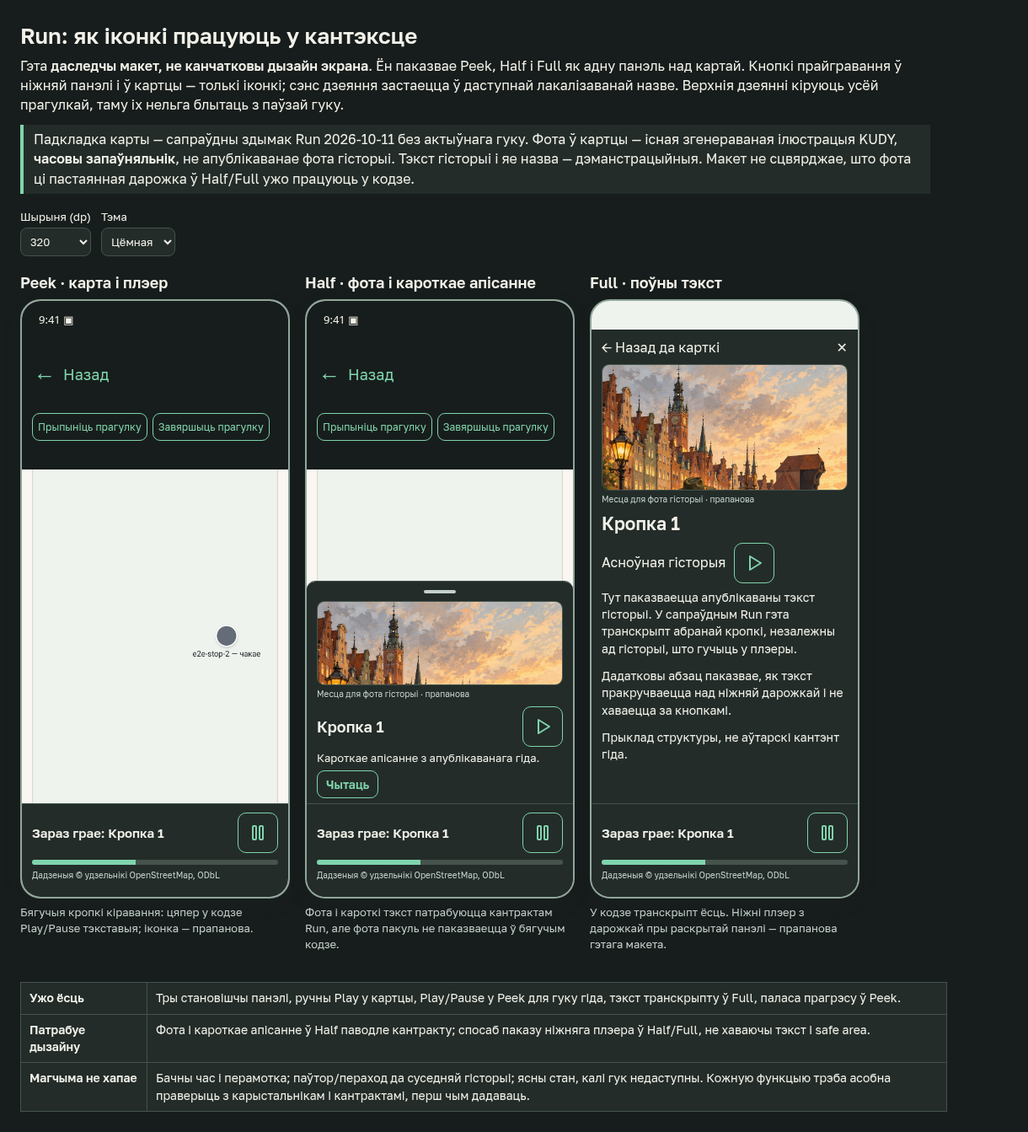
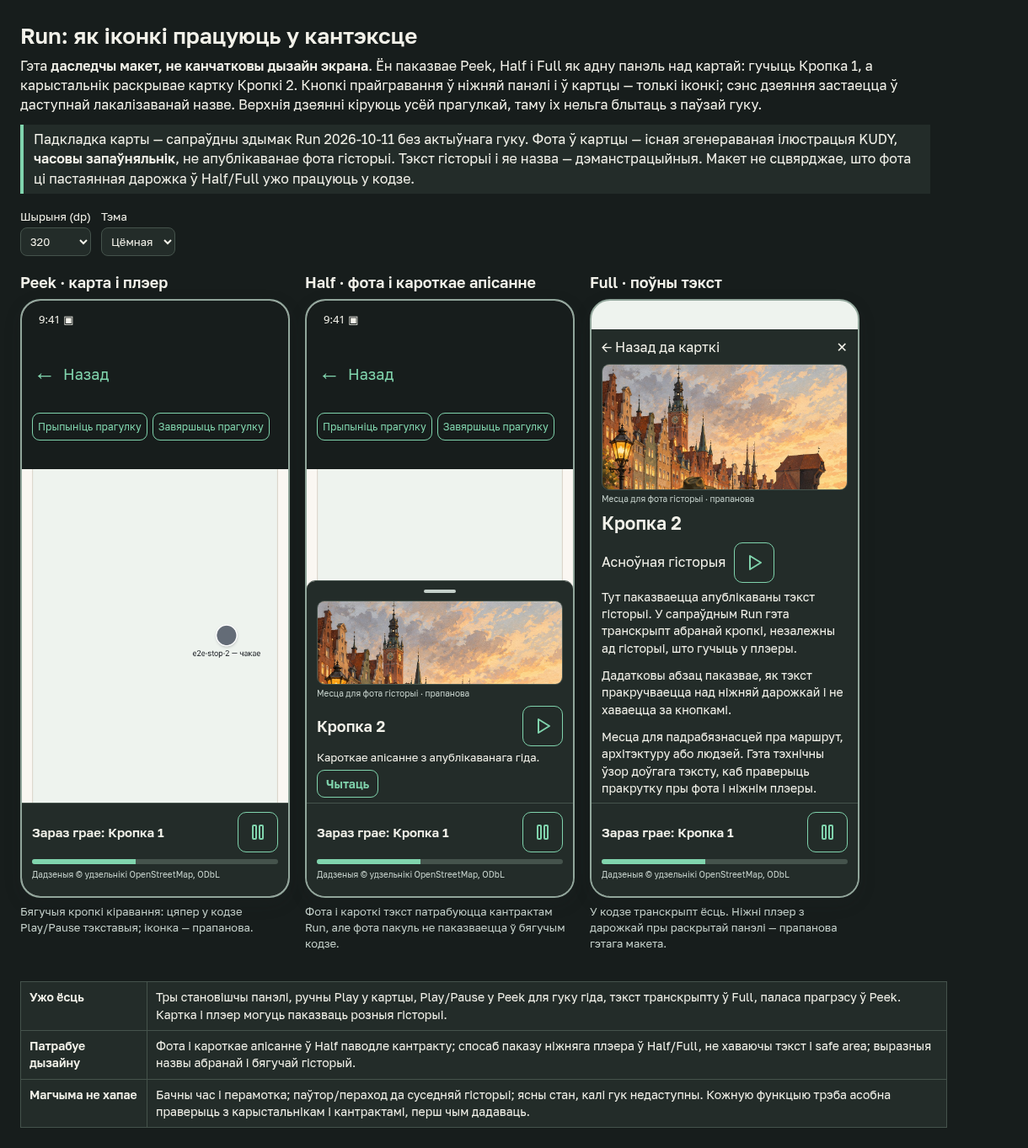
docs: show expanded Run playback context

diff --git a/docs/design/brand/outputs/UI-REVIEW-01/run-context.html b/docs/design/brand/outputs/UI-REVIEW-01/run-context.html
@@ -23,7 +23,7 @@ body[data-theme=dark]{--paper:#171d1c;--ink:#f2f1e9;--muted:#c4d0ca;--accent:#80
 </head>
 <body data-theme="light">
 <h1>Run: як іконкі працуюць у кантэксце</h1>
-<p class="intro">Гэта <b>даследчы макет, не канчатковы дызайн экрана</b>. Ён паказвае Peek, Half і Full як адну панэль над картай. Кнопкі прайгравання ў ніжняй панэлі і ў картцы — толькі іконкі; сэнс дзеяння застаецца ў даступнай лакалізаванай назве. Верхнія дзеянні кіруюць усёй прагулкай, таму іх нельга блытаць з паўзай гуку.</p>
+<p class="intro">Гэта <b>даследчы макет, не канчатковы дызайн экрана</b>. Ён паказвае Peek, Half і Full як адну панэль над картай: гучыць Кропка 1, а карыстальнік раскрывае картку Кропкі 2. Кнопкі прайгравання ў ніжняй панэлі і ў картцы — толькі іконкі; сэнс дзеяння застаецца ў даступнай лакалізаванай назве. Верхнія дзеянні кіруюць усёй прагулкай, таму іх нельга блытаць з паўзай гуку.</p>
 <p class="caveat">Падкладка карты — сапраўдны здымак Run 2026-10-11 без актыўнага гуку. Фота ў картцы — існая згенераваная ілюстрацыя KUDY, <b>часовы запаўняльнік</b>, не апублікаванае фота гісторыі. Тэкст гісторыі і яе назва — дэманстрацыйныя. Макет не сцвярджае, што фота ці пастаянная дарожка ў Half/Full ужо працуюць у кодзе.</p>
 <div class="controls"><label>Шырыня (dp)<select id="width"><option>320</option><option selected>360</option><option>390</option></select></label><label>Тэма<select id="theme"><option value="light">Светлая</option><option value="dark">Цёмная</option></select></label></div>
 <div class="grid">
@@ -31,7 +31,7 @@ body[data-theme=dark]{--paper:#171d1c;--ink:#f2f1e9;--muted:#c4d0ca;--accent:#80
  <section class="case"><h2>Half · фота і кароткае апісанне</h2><div class="phone" id="half"></div><p>Фота і кароткі тэкст патрабуюцца кантрактам Run, але фота пакуль не паказваецца ў бягучым кодзе.</p></section>
  <section class="case"><h2>Full · поўны тэкст</h2><div class="phone" id="full"></div><p>У кодзе транскрыпт ёсць. Ніжні плэер з дарожкай пры раскрытай панэлі — прапанова гэтага макета.</p></section>
 </div>
-<table class="fact-table"><tr><th>Ужо ёсць</th><td>Тры становішчы панэлі, ручны Play у картцы, Play/Pause у Peek для гуку гіда, тэкст транскрыпту ў Full, паласа прагрэсу ў Peek.</td></tr><tr><th>Патрабуе дызайну</th><td>Фота і кароткае апісанне ў Half паводле кантракту; спосаб паказу ніжняга плэера ў Half/Full, не хаваючы тэкст і safe area.</td></tr><tr><th>Магчыма не хапае</th><td>Бачны час і перамотка; паўтор/пераход да суседняй гісторыі; ясны стан, калі гук недаступны. Кожную функцыю трэба асобна праверыць з карыстальнікам і кантрактамі, перш чым дадаваць.</td></tr></table>
+<table class="fact-table"><tr><th>Ужо ёсць</th><td>Тры становішчы панэлі, ручны Play у картцы, Play/Pause у Peek для гуку гіда, тэкст транскрыпту ў Full, паласа прагрэсу ў Peek. Картка і плэер могуць паказваць розныя гісторыі.</td></tr><tr><th>Патрабуе дызайну</th><td>Фота і кароткае апісанне ў Half паводле кантракту; спосаб паказу ніжняга плэера ў Half/Full, не хаваючы тэкст і safe area; выразныя назвы абранай і бягучай гісторый.</td></tr><tr><th>Магчыма не хапае</th><td>Бачны час і перамотка; паўтор/пераход да суседняй гісторыі; ясны стан, калі гук недаступны. Кожную функцыю трэба асобна праверыць з карыстальнікам і кантрактамі, перш чым дадаваць.</td></tr></table>
 <script>
 const map='../../../../../testing/evidence/2026-10-11-g727/run-active.png';
 const art='../mobile-welcome-2026-10-19/art/08-night-harbor.jpg';
@@ -41,8 +41,8 @@ const base=`<img class="map-shot" src="${map}" alt=""><div class="header"><span 
 const dock=`<div class="dock"><div class="dock-row"><div class="now">Зараз грае: Кропка 1</div><button type="button" class="icon-button" aria-label="Паўза" title="Паўза">${pause}</button></div><div class="progress" aria-label="Прайграна 42%"><span></span></div><div class="source">Дадзеныя © удзельнікі OpenStreetMap, ODbL</div></div>`;
 const photo=`<img class="story-photo" src="${art}" alt="Ілюстрацыя-запаўняльнік: горад ля вады"><div class="photo-caption">Месца для фота гісторыі · прапанова</div>`;
 document.querySelector('#peek').innerHTML=base+dock;
-document.querySelector('#half').innerHTML=base+`<div class="sheet"><div class="handle"></div>${photo}<div class="story-row"><h3>Кропка 1</h3><button class="icon-button" type="button" aria-label="Граць" title="Граць">${play}</button></div><div class="summary">Кароткае апісанне з апублікаванага гіда.</div><button class="read" type="button">Чытаць</button></div>`+dock;
-document.querySelector('#full').innerHTML=`<div class="full"><div class="headerline"><span>← Назад да карткі</span><span>✕</span></div>${photo}<h3>Кропка 1</h3><div class="story-row"><span>Асноўная гісторыя</span><button class="icon-button" type="button" aria-label="Граць" title="Граць">${play}</button></div><div class="bodycopy"><p>Тут паказваецца апублікаваны тэкст гісторыі. У сапраўдным Run гэта транскрыпт абранай кропкі, незалежны ад гісторыі, што гучыць у плэеры.</p><p>Дадатковы абзац паказвае, як тэкст пракручваецца над ніжняй дарожкай і не хаваецца за кнопкамі.</p><p class="proposal">Прыклад структуры, не аўтарскі кантэнт гіда.</p></div></div>`+dock;
+document.querySelector('#half').innerHTML=base+`<div class="sheet"><div class="handle"></div>${photo}<div class="story-row"><h3>Кропка 2</h3><button class="icon-button" type="button" aria-label="Граць гісторыю Кропкі 2" title="Граць гісторыю Кропкі 2">${play}</button></div><div class="summary">Кароткае апісанне з апублікаванага гіда.</div><button class="read" type="button">Чытаць</button></div>`+dock;
+document.querySelector('#full').innerHTML=`<div class="full"><div class="headerline"><span>← Назад да карткі</span><span>✕</span></div>${photo}<h3>Кропка 2</h3><div class="story-row"><span>Асноўная гісторыя</span><button class="icon-button" type="button" aria-label="Граць гісторыю Кропкі 2" title="Граць гісторыю Кропкі 2">${play}</button></div><div class="bodycopy"><p>Тут паказваецца апублікаваны тэкст гісторыі. У сапраўдным Run гэта транскрыпт абранай кропкі, незалежны ад гісторыі, што гучыць у плэеры.</p><p>Дадатковы абзац паказвае, як тэкст пракручваецца над ніжняй дарожкай і не хаваецца за кнопкамі.</p><p>Месца для падрабязнасцей пра маршрут, архітэктуру або людзей. Гэта тэхнічны ўзор доўгага тэксту, каб праверыць пракрутку пры фота і ніжнім плэеры.</p><p>У канцы гісторыі могуць быць дадатковыя звесткі, якія трэба дачытаць без перакрыцця дарожкай. Сапраўдны тэкст задае рэдактар гіда.</p><p class="proposal">Прыклад структуры, не аўтарскі кантэнт гіда.</p></div></div>`+dock;
 for(const s of document.querySelectorAll('select'))s.addEventListener('change',()=>{document.body.dataset.theme=document.querySelector('#theme').value;document.body.style.setProperty('--w',document.querySelector('#width').value+'px')});
 </script>
 </body></html>

diff --git a/docs/agent-tasks/results/UI-REVIEW-01.md b/docs/agent-tasks/results/UI-REVIEW-01.md
@@ -12,14 +12,14 @@
 
 ## Варыянты для выбару
 
-Рэдагуемая [дошка іконак](../../design/brand/outputs/UI-REVIEW-01/board.html) параўноўвае два варыянты без бачнага подпісу на аднолькавай падкладцы Run. Кнопка ў кожнага варыянту мінімум 48×48 dp. [Кантэкстны макет](../../design/brand/outputs/UI-REVIEW-01/run-context.html) асобна паказвае Peek, Half і Full з іконкамі для ніжняга Play/Pause і ручнога Play у картцы, з фота-слотам, тэкстам і ніжняй дарожкай. Гэта дызайнерскае даследаванне, не канчатковы UI.
+Рэдагуемая [дошка іконак](../../design/brand/outputs/UI-REVIEW-01/board.html) параўноўвае два варыянты без бачнага подпісу на аднолькавай падкладцы Run. Кнопка ў кожнага варыянту мінімум 48×48 dp. [Кантэкстны макет](../../design/brand/outputs/UI-REVIEW-01/run-context.html) асобна паказвае Peek, Half і Full з іконкамі для ніжняга Play/Pause і ручнога Play у картцы, з фота-слотам, тэкстам і ніжняй дарожкай. У ім гучыць Кропка 1, а адкрыта картка Кропкі 2: бягучы код захоўвае гэтыя два паказальнікі асобна. Больш дакладная даступная назва ручнога Play у макеце — прапанова, production цяпер выкарыстоўвае `strings.playAudio` і асобную падказку. Гэта дызайнерскае даследаванне, не канчатковы UI.
 
 | Варыянт | Знешні выгляд | Перавага | Адкрытае пытанне |
 |---|---|---|---|
 | A | Контурныя простыя знакі `play` / `pause`, без бачнага слова, звычайная кнопка | Сумяшчаецца з існым Lucide-напрамкам | Ці хапае распазнавальнасці ў Peek без тэксту? |
 | B | Суцэльныя плоскія знакі на акцэнтнай кнопцы, без бачнага слова | Мацней бачны Play/Pause на светлай карце | Ці не робіцца гукавая кнопка занадта галоўнай адносна іншых дзеянняў? |
 
-Здымкі параўнання: [светлая 320 dp, гукавая Паўза](../../design/brand/outputs/UI-REVIEW-01/light-320-pause.png); [цёмная 390 dp, Граць у фокусе](../../design/brand/outputs/UI-REVIEW-01/dark-390-play-focus.png); [светлая 320 dp, нямецкая a11y-назва 1,25×](../../design/brand/outputs/UI-REVIEW-01/light-320-play-large-de.png); [цёмная 320 dp, прапанаваны disabled](../../design/brand/outputs/UI-REVIEW-01/dark-320-disabled.png); [мадэль высокага кантрасту, Play націснуты](../../design/brand/outputs/UI-REVIEW-01/contrast-320-pressed.png). Кожны здымак утрымлівае A/B у тых жа ўмовах; мова мяняе даступную назву, але не шырыню іконкі. Кантэкст: [светлая 360 dp](../../design/brand/outputs/UI-REVIEW-01/context-light-360.png) і [цёмная 320 dp](../../design/brand/outputs/UI-REVIEW-01/context-dark-320.png). Для фота-слота ўзята існая [ілюстрацыя-запаўняльнік](../../design/brand/outputs/mobile-welcome-2026-10-19/art/08-night-harbor.jpg), не фота апублікаванага гіда.
+Здымкі параўнання: [светлая 320 dp, гукавая Паўза](../../design/brand/outputs/UI-REVIEW-01/light-320-pause.png); [цёмная 390 dp, Граць у фокусе](../../design/brand/outputs/UI-REVIEW-01/dark-390-play-focus.png); [светлая 320 dp, нямецкая a11y-назва 1,25×](../../design/brand/outputs/UI-REVIEW-01/light-320-play-large-de.png); [цёмная 320 dp, прапанаваны disabled](../../design/brand/outputs/UI-REVIEW-01/dark-320-disabled.png); [мадэль высокага кантрасту, Play націснуты](../../design/brand/outputs/UI-REVIEW-01/contrast-320-pressed.png). Кожны здымак утрымлівае A/B у тых жа ўмовах; мова мяняе даступную назву, але не шырыню іконкі. Кантэкст: [светлая 360 dp](../../design/brand/outputs/UI-REVIEW-01/context-light-360.png), [цёмная 320 dp](../../design/brand/outputs/UI-REVIEW-01/context-dark-320.png) і [доўгі тэкст у Full, пракручаны да канца](../../design/brand/outputs/UI-REVIEW-01/context-dark-320-scrolled.png). Для фота-слота ўзята існая [ілюстрацыя-запаўняльнік](../../design/brand/outputs/mobile-welcome-2026-10-19/art/08-night-harbor.jpg), не фота апублікаванага гіда.
 
 ## Праверкі і межы доказаў
 
@@ -28,6 +28,7 @@
 | Патрабаванне | Доказ / вынік | Абмежаванне |
 |---|---|---|
 | Дотык і вузкі экран | Chromium/Playwright замераў A/B 48×48 CSS px на 320/390; абедзве ў межах экрана. У RN `barControl.minHeight = 48`. | CSS px адпавядаюць намінальным dp макета; фізічная прылада не праверана. |
+| Доўгі тэкст і ніжні плэер | У макеце Full на 320 CSS px мае пракрутку: бачныя 673 px, змесціва 832 px, пракрутка да 159 px; апошні абзац даступны над ніжняй дарожкай. | Гэта праверка HTML-макета, не production Run. |
 | Лакалізаваны доступ | На макеце `button` мае `aria-label` па дзеянні і схаваны ад скрынрыдара SVG; у production `accessibilityRole="button"` і назва з `strings.playAudio`/`pauseAudio` ўжо ёсць. | TalkBack/VoiceOver і focus order не правераныя на прыладзе. |
 | Станы | Звычайны, націснуты, фокус, disabled на дошцы; light/dark, 1×/1,25×, be/en/de. Фокус мае канонавы контур. | Disabled у production цяпер не рэндэрыцца: код хавае кнопку, калі няма `playingGuide`. Узоры disabled — толькі дызайн-прапанова, не новая ўмова Run. |
 | Кантраст токенаў | Разлічаныя пары WCAG: light A/B 6,43:1; dark A 8,16:1; dark B 8,73:1; disabled ink на card 4,83:1 light і 5,80:1 dark; dark disabled border на card 3,26:1. | Гэта пары токенаў, не замер адмаляваных пікселяў. Сістэмны высокі кантраст не правераны. |
@@ -58,6 +59,7 @@
 | Кіраванне аўтазапускам | Run паказвае, што аўтаматычныя гісторыі прыпыненыя пасля прыпынення сесіі; асобны пераключальнік перавагі ў даследаваным экране не знойдзены. | Ці патрэбна карыстальніку загадзя адключыць аўтазапуск гісторыі перад прагулкай. [Apple Accessibility](https://developer.apple.com/design/human-interface-guidelines/accessibility) прапануе разглядаць такую перавагу для аўдыё і відэа. |
 | Фота і тэкст у Half | Кантракт патрабуе фота і 1–2 радкі; код цяпер паказвае назву, статус і дзеянні без фота. | Паходжанне і alt фота, якое месца займае кадр пры 320 dp і як адкрываецца Full. |
 | Ніжні плэер пры раскрытай панэлі | У кодзе бар і дарожка змантаваныя толькі ў Peek. | Ці трымаць плэер бачным у Half/Full; як не закрыць тэкст, safe area і кнопкі. |
+| Адкрыта адна гісторыя, гучыць іншая | `inspected` і `playing` незалежныя ў Run; транскрыпт адносіцца да адкрытай карткі, бар — да гуку. | Ці лёгка адрозніць «Граць гісторыю Кропкі 2» ад «Паўза для Кропкі 1» без бачных подпісаў; як агучваць назву гісторыі скрынрыдару. |
 | Падключэнне навушнікаў і перапыненні | Для гэтай дызайн-задачы не правяралася, што адбываецца з аўдыё пры зняцці навушнікаў, званку або кіраванні з сістэмнага плэера. | Спачатку праверыць паводзіны на прыладзе; [Apple Playing audio](https://developer.apple.com/design/human-interface-guidelines/playing-audio) апісвае чаканні адносна выхаду гуку і знешніх элементаў кіравання. |
 
 Парадак праверкі: спачатку фота/тэкст і даступнасць ніжняга плэера пры раскрыцці — гэта непасрэдна ўплывае на чытанне і прайграванне ў Run. Потым высветліць бачнасць прычыны недаступнага гуку і патрэбу ў часе/перамотцы. Паўтор, наступную гісторыю і перавагу аўтазапуску праверыць асобна з карыстальнікамі: яны могуць змяніць сцэнар свабоднай прагулкі. Падключэнне навушнікаў і перапыненні патрабуюць прыладавай праверкі да рашэння пра дадатковыя элементы кіравання. Гэта спіс пытанняў да асобнай UX-задачы. Ні адна функцыя не становіцца часткай #98 без новага рашэння ўладальніка і праверкі кантрактаў.
